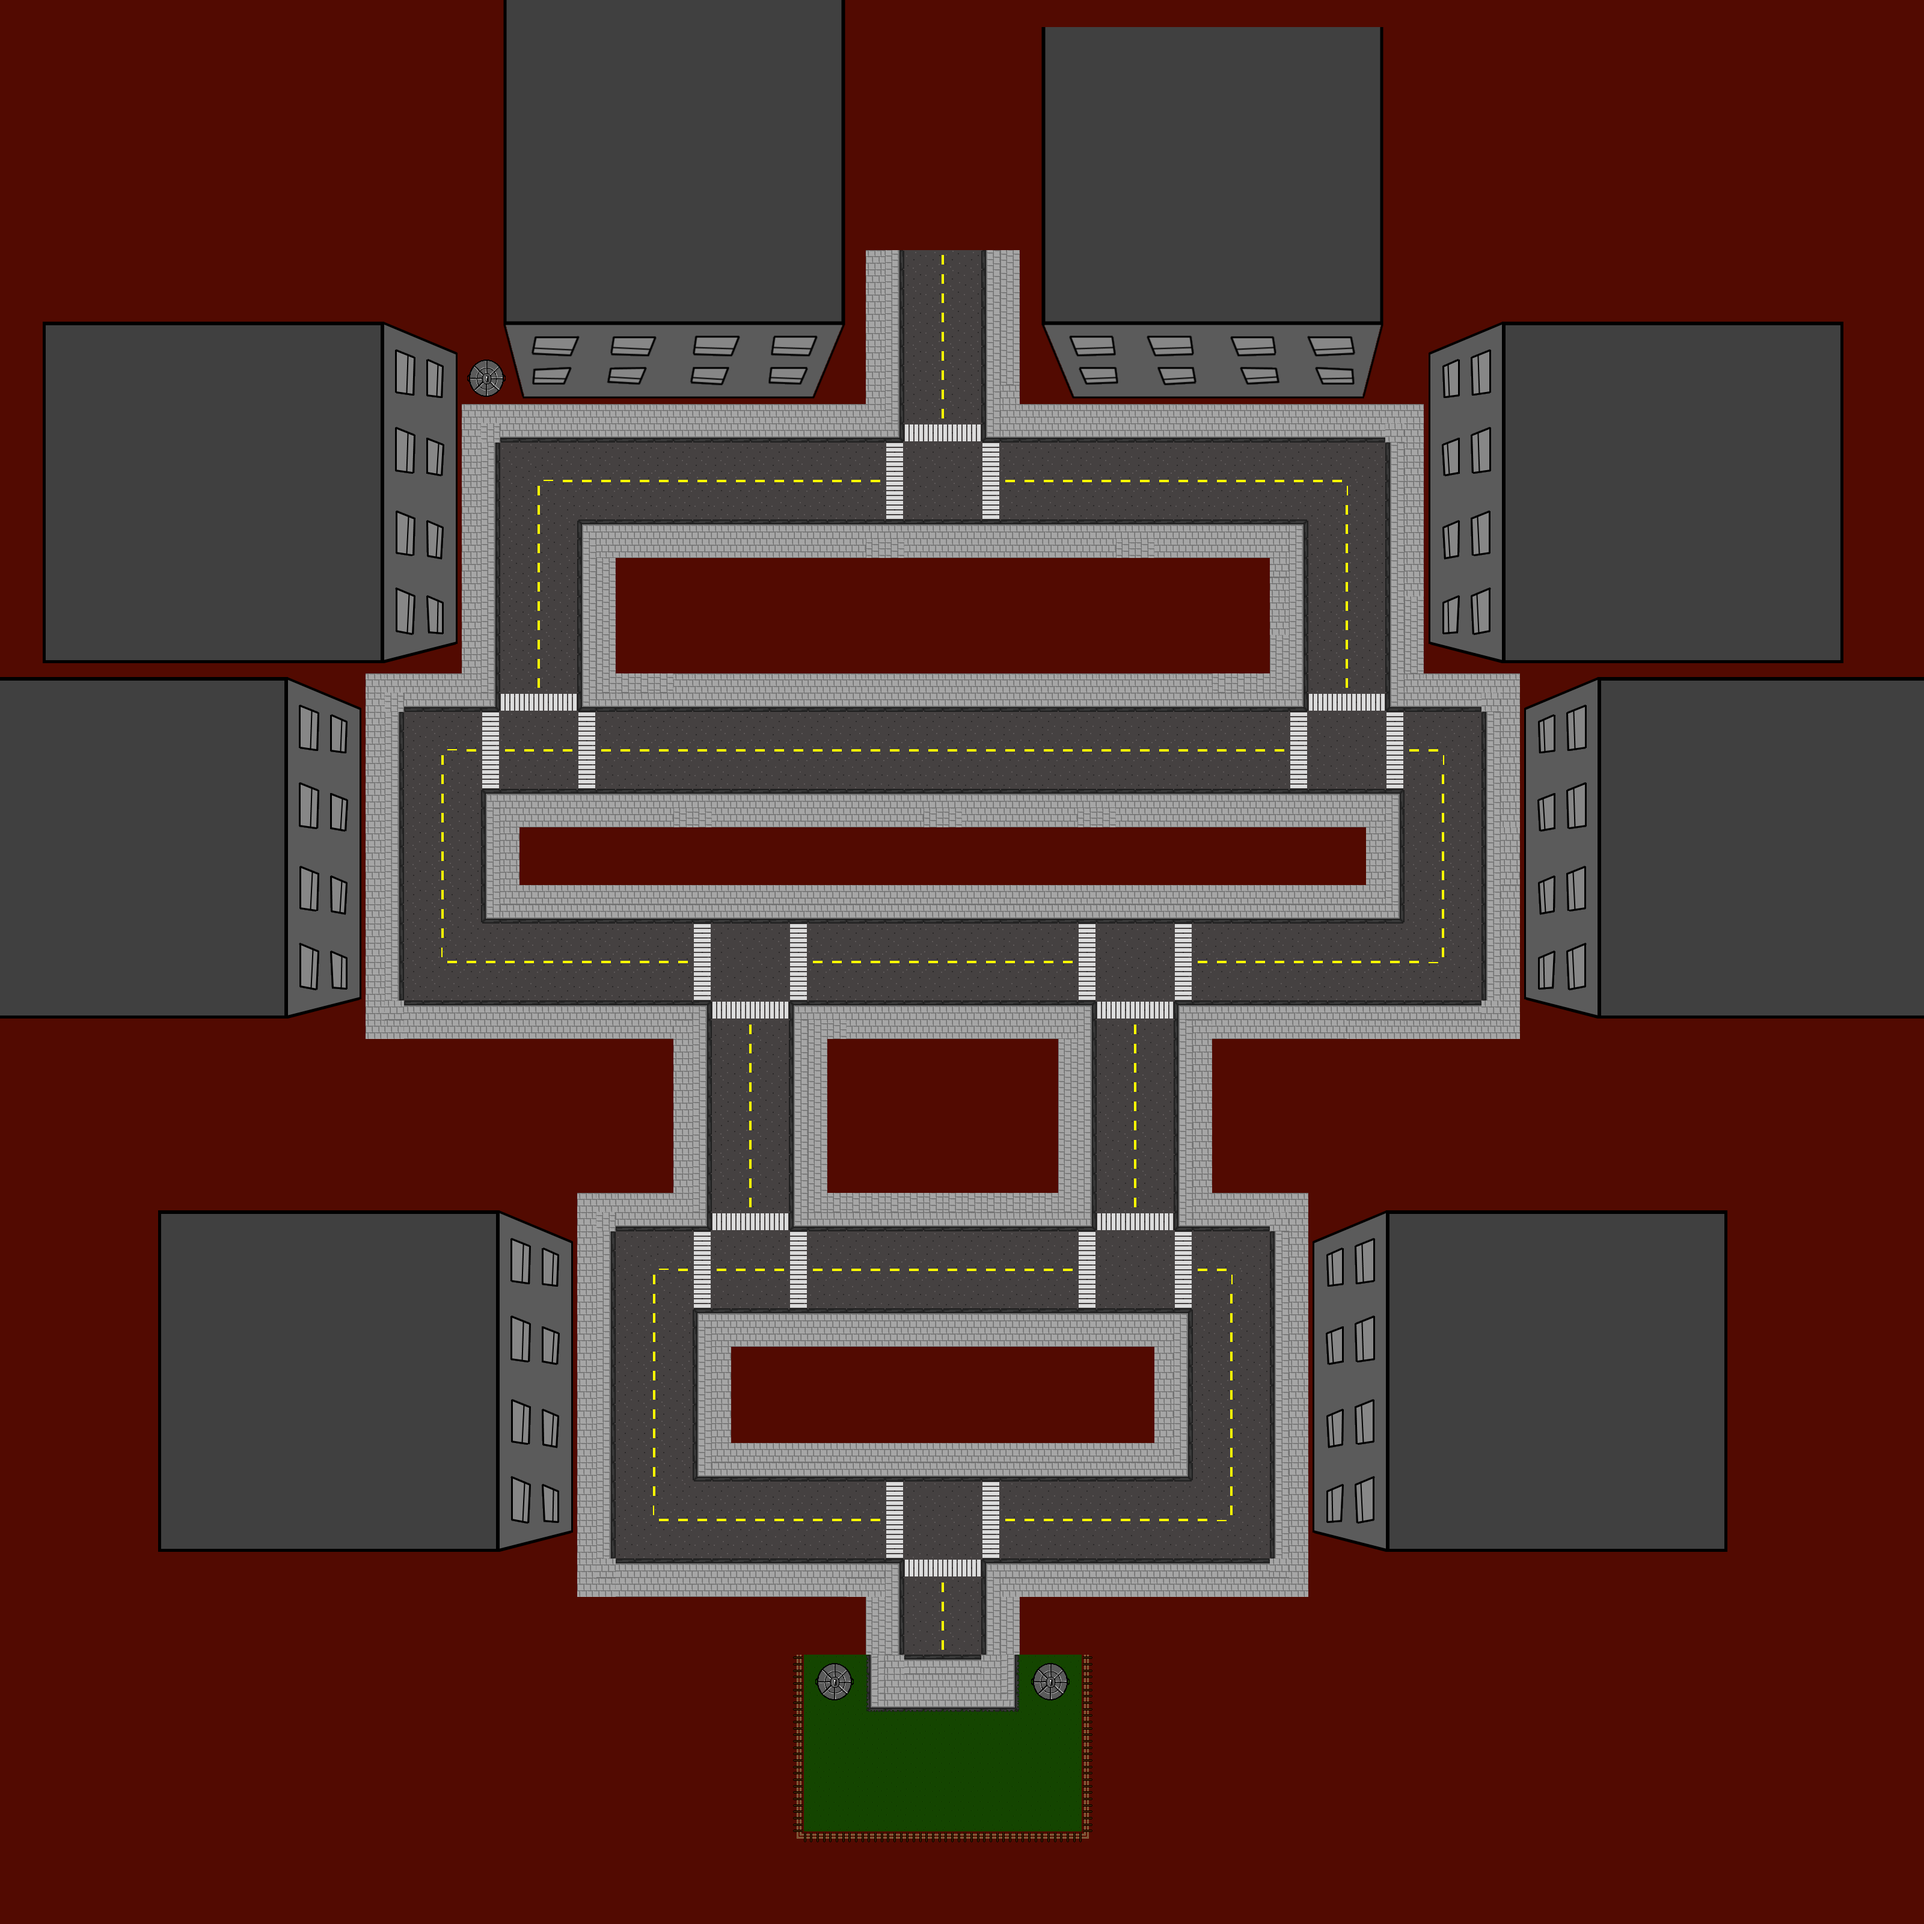
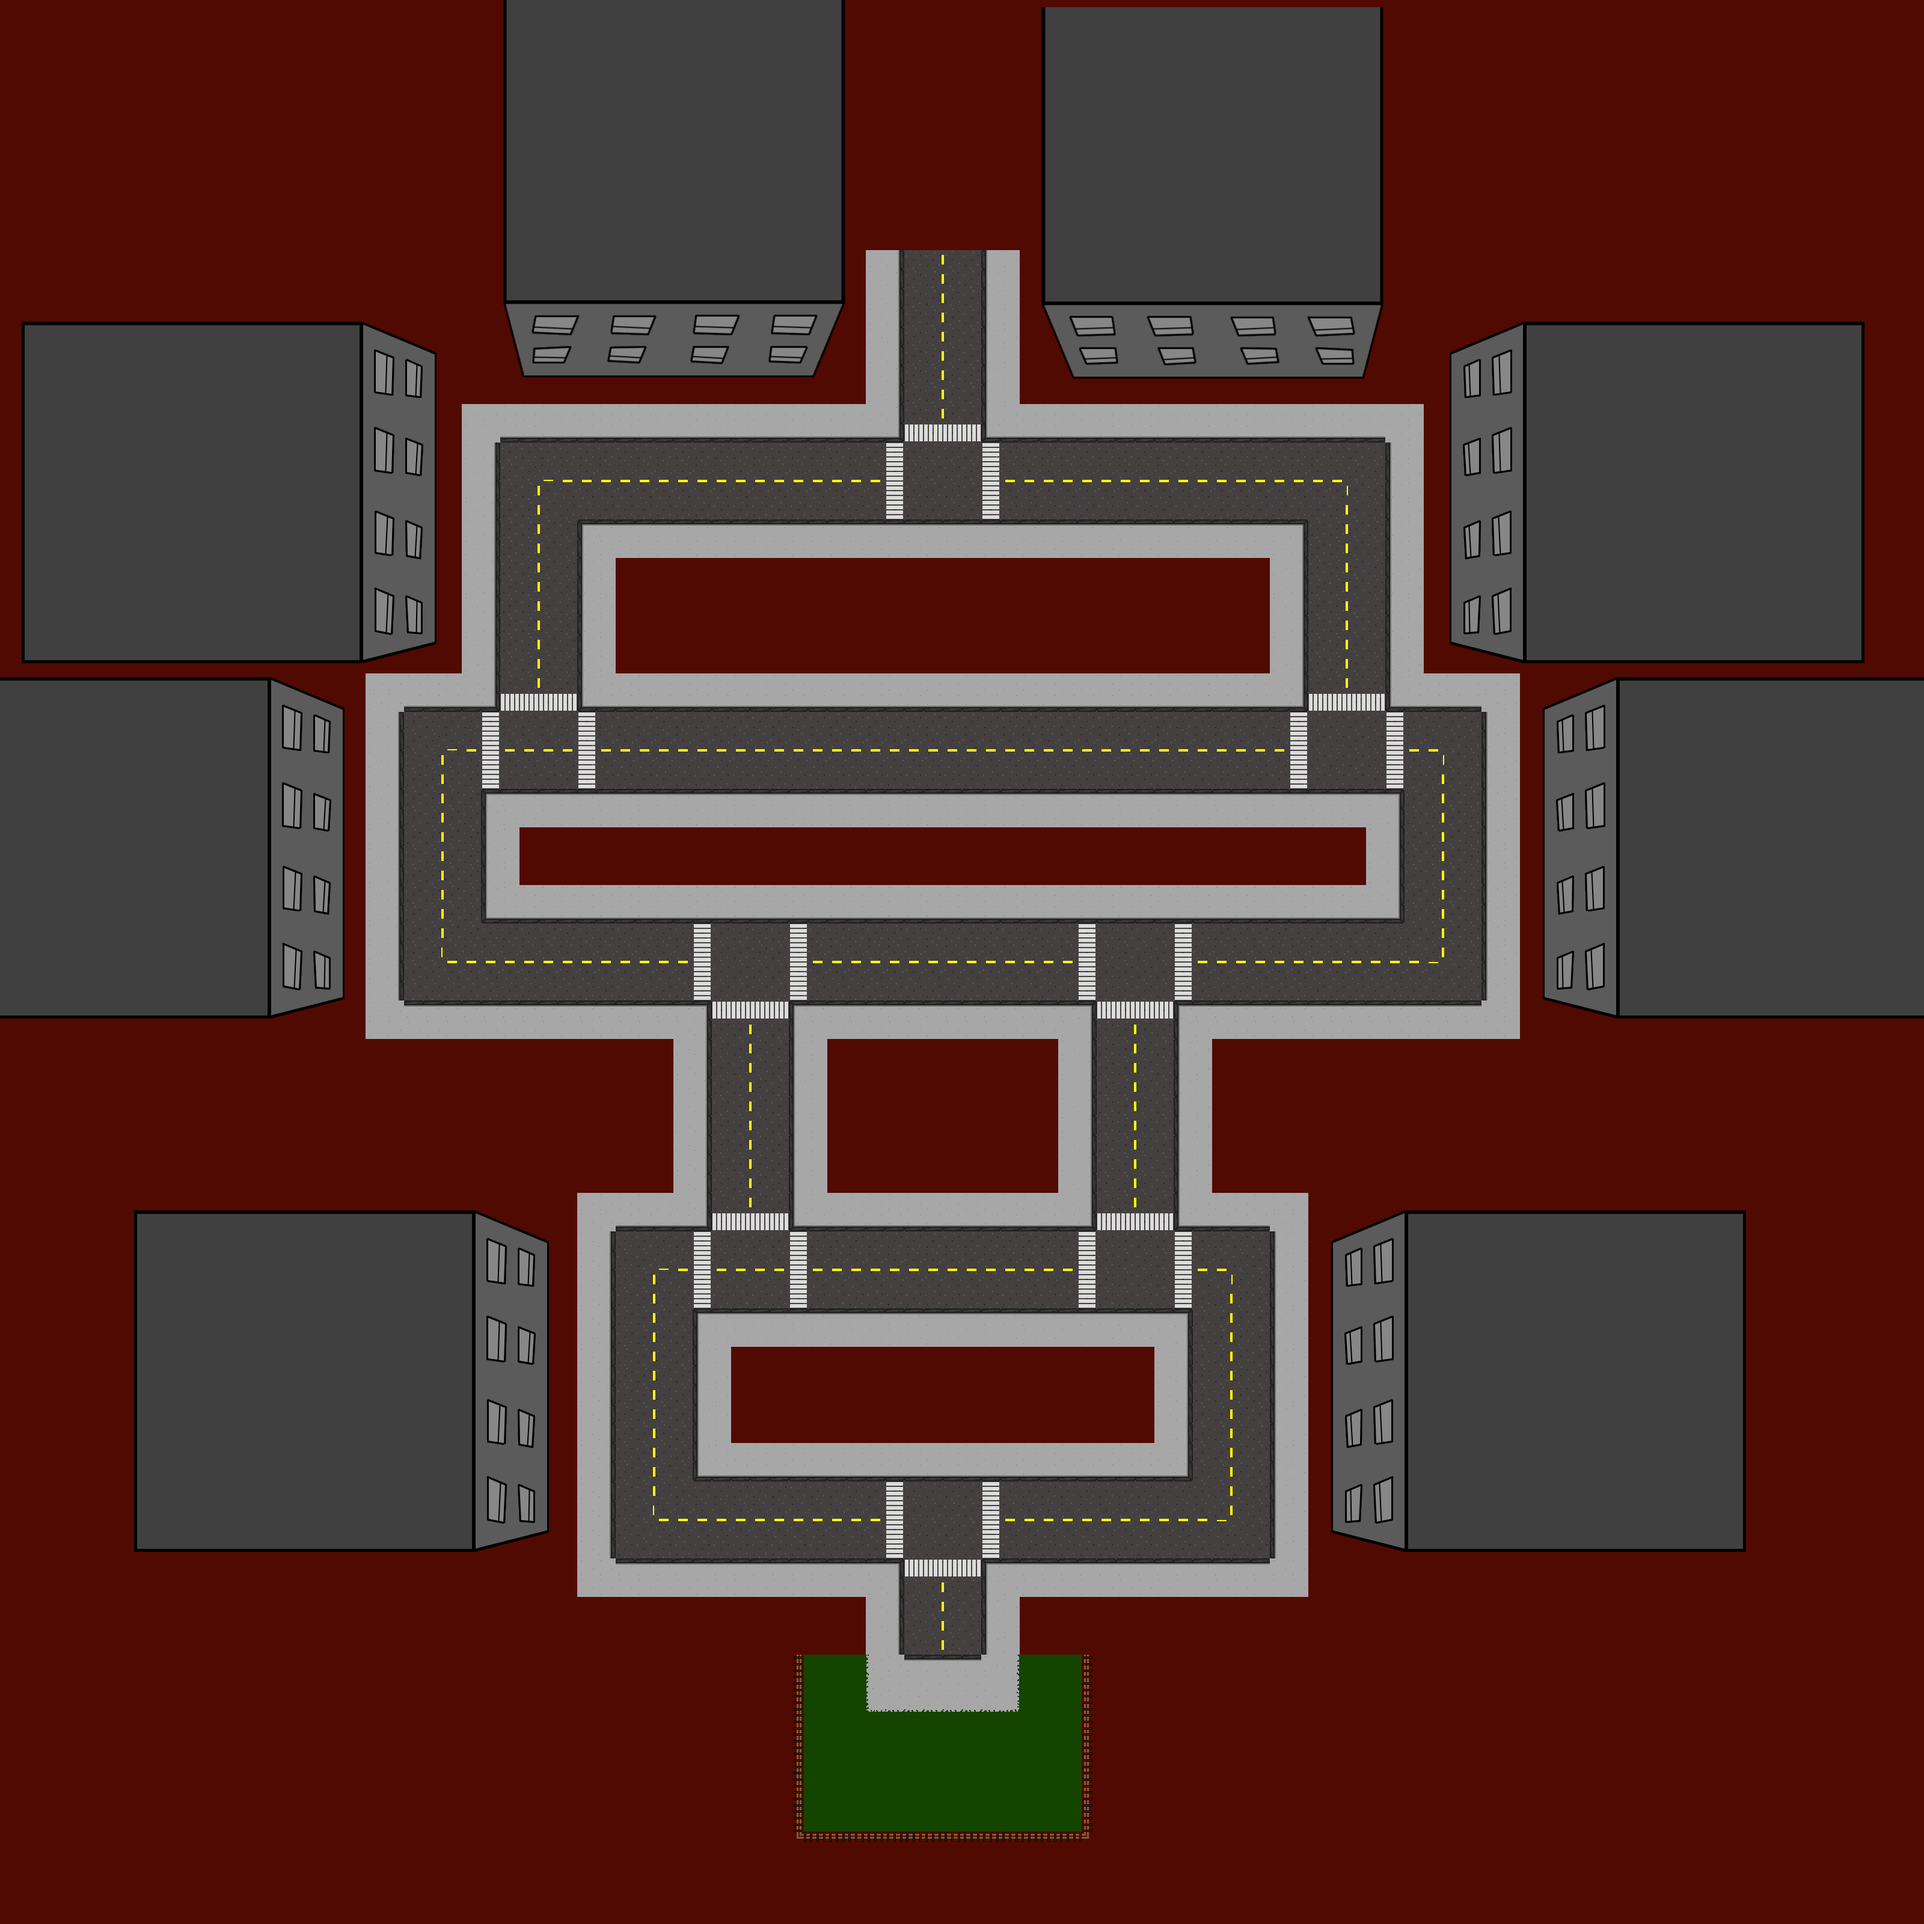
Mob programming roomba and item placement

diff --git a/Main.py b/Main.py
@@ -23,7 +23,7 @@ ProjectileDelay = 0
 Y = 0
 X = 0
 
-CharacterSpeed = 5
+CharacterSpeed = 15
 
 # Defining colours for later use
 White = (255, 255, 255)
@@ -32,7 +32,7 @@ Green = (0, 255, 0)
 Blue = (0, 0, 255)
 Yellow = (255, 255, 0)
 Black = (0, 0, 0)
-CollisionColour = (83, 11, 2)
+CollisionColour = (82, 10, 1)
 
 # Rectangles
 rect = (0, 650, 70, 70)
@@ -43,9 +43,10 @@ rect3 = (160, 650, 70, 70)
 TextFont = pygame.font.SysFont("impact", 60)
 
 # Importing the art
-BackgroundSmall = pygame.image.load("map.png")
+BackgroundSmall = pygame.image.load("map2.png")
 Background = pygame.transform.scale(BackgroundSmall, (5000,5000))
 CharacterModel = pygame.image.load("character2.png")
+ScientistModel = pygame.image.load("Art-assets/Characters/Scientist.png")
 RoombaModel = pygame.image.load("Art-assets/Enemies/Roomba (passive).png")
 RoombaModelHostile = pygame.image.load("Art-assets/Enemies/Roomba (hostile).png")
 PaintballAmmoIcon = pygame.image.load("Art-assets/Paintgun-ammo/AmmoIcon.png")
@@ -57,6 +58,7 @@ BananaPeel = pygame.image.load("Art-assets/Rubbish\Banana peel.png")
 BeerBottle = pygame.image.load("Art-assets/Rubbish/Beer bottle.png")
 WaterBottle = pygame.image.load("Art-assets/Rubbish/Bottle.png")
 GarbageCan = pygame.image.load("Art-assets/Rubbish/Garbage can.png")
+#GarbageCanOpen = pygame.image.load("Art-assests/character2.png")
 RustyCan = pygame.image.load("Art-assets/Rubbish/Rusty Can.png")
 
 # Draws the screen
@@ -76,9 +78,9 @@ class CharacterClass:
         self.rotation = 0
 
         # Item counters
-        self.paint_ball_ammo = 999
-        self.paint_grenade = 999
-        self.rubbish = 999
+        self.paint_ball_ammo = 10
+        self.paint_grenade = 0
+        self.rubbish = 0
 
         # Paintball properties
         self.ball_position = (self.pos_x, self.pos_y)
@@ -151,6 +153,8 @@ class CharacterClass:
                 self.rubbish += 1
             if item_counter == 2:
                 self.paint_grenade += 1
+            if item_counter == 3:
+                self.rubbish += 3
 
         # Draws a paintball if conditions are met
         if self.ball_spawn:
@@ -259,7 +263,9 @@ class CharacterClass:
             if roomba.pos_x + X < self.ball_position[0] < roomba.pos_x + X + 64:
                 if roomba.pos_y + Y < self.ball_position[1] < roomba.pos_y + Y + 64:
                     print "hit"
-                    roombas.remove(roomba)
+                    roomba.delay = 100
+                    self.ball_spawn = False
+                    return
 
     def throw_projectile(self, projectile, projectile_delay, projectile_type):
         """Code for throwing projectiles"""
@@ -342,12 +348,14 @@ class Items:
 
     def draw(self):
         """draws the items on the screen"""
-        if self.item == 1:
-            screen.blit(self.rubbish_type, (X + self.pos_x, Y + self.pos_y))
         if self.item == 0:
             screen.blit(PaintballAmmo, (X + self.pos_x, Y + self.pos_y))
+        if self.item == 1:
+            screen.blit(self.rubbish_type, (X + self.pos_x, Y + self.pos_y))
         if self.item == 2:
             screen.blit(PaintGrenade, (X + self.pos_x, Y + self.pos_y))
+        if self.item == 3:
+            screen.blit(GarbageCan, (X + self.pos_x, Y + self.pos_y))
 
     def player_collision(self):
         """detects collision with the player"""
@@ -363,7 +371,10 @@ class Items:
         if roomba.pos_x - 64 + X < X + self.pos_x < roomba.pos_x + 64 + X:
             if roomba.pos_y - 64 + Y < Y + self.pos_y < roomba.pos_y + 64 + Y:
                 # Removes the item from the list
-                listItems.remove(self)
+                try:
+                    listItems.remove(self)
+                except:
+                    pass
 
 
 class Roomba:
@@ -390,6 +401,7 @@ class Roomba:
         self.detect = 0
         self.returning = False
 
+        self.delay = 0
         self.switch = True
 
     def move(self):
@@ -413,7 +425,7 @@ class Roomba:
         if CharacterPos[0] - 50 < X + self.pos_x + 47 < CharacterPos[0] + 50:
             if CharacterPos[1] - 50 < Y + self.pos_y + 47 < CharacterPos[1] + 50:
                 print "game over"
-                execfile("Game over screen.py")
+                #execfile("Game over screen.py")
 
     def detects(self):
         """Checks if roomba detects player or items"""
@@ -597,6 +609,14 @@ def sub(u, v):
     return [u[i]-v[i] for i in range(len(u))]
     # http://stackoverflow.com/questions/33172753/how-to-have-an-object-run-directly-away-from-mouse-at-a-constant-speed/33173194#33173194
 
+
+def draw_scientist():
+    """Rotates the Scientist to face the point"""
+    vector = sub((X + 540, Y - 1250), CharacterPos)
+    rotate = (math.atan2(vector[0], vector[1]) * 57.2958)
+    scientist_rotate = pygame.transform.rotate(ScientistModel, rotate)
+    screen.blit(scientist_rotate, (X + 640, Y - 1350))
+
 # Create character
 PlayCharacter = CharacterClass()
 
@@ -606,14 +626,25 @@ roombas = []
 # List of Items
 listItems = []
 
-# Item properties (x coord, y coord, item type, used for throwing rubbish)
-ItemSpawn = [(800, 600, 0, ""), (800, 500, 0, ""), (900, 600, 2, "")]
+# Item properties (x coord, y coord, item type, used for throwing rubbish) (0 = AMMO, 2 = GRENADE, 3 = RUBBISH)
+ItemSpawn = [(860, 150, 3, ""), (380, 150, 3, ""), (750, -1885, 3, "")]
 
 # Roomba Start points and end points (Start point x, Start point y, Travel distance x, Travel distance y)
 RoombaSpawn = [(1200, -810, 0, 450), (1300, -840, 0, 500), (1410, -870, 0, 550),
                (1510, -900, 0, 600), (-205, -825, 0, 400), (-90, -480, 0, -400),
                (350, -945, 600, 0), (1000, -1350, 250, 0), (5, -1530, 250, 0),
-               (250, -1385, -250, 0), (5, -1290, 250, 0), (250, -1170, -250, 0)]
+               (250, -1385, -250, 0), (5, -1290, 250, 0), (250, -1170, -250, 0),
+               (1335, -1900, 500, 0), (1335, -1800, 550, 0), (1335, -1700, 600, 0),
+               (1335, -1600, 650, 0), (-550, -2350, 0, 600), (-650, -2350, 0, 600),
+               (-750, -2350, 0, 600), (-850, -2350, 0, 600), (1750, -2260, 0, 250),
+               (1850, -2245, 0, 300), (1950, -2335, 0, 500), (2050, -2400, 0, 700),
+               (1500, -2450, -1600, 0), (1400, -2370, -1550, 0), (1300, -2290, -1500, 0),
+               (1400, -2210, -1550, 0), (1500, -2140, -1600, 0), (-300, -2950, 0, 400),
+               (-400, -2950, 0, 400), (-500, -2950, 0, 400), (-600, -2950, 0, 400),
+               (-300, -2850, 0, 400), (-400, -2850, 0, 400), (-500, -2850, 0, 400),
+               (-600, -2850, 0, 400), (445, -2995, -500, 0), (900, -3160, 300, 300),
+               (970, -2830, 300, -300), (1040, -3160, 300, 300), (1110, -2830, 300, -300),
+               (1180, -3160, 300, 300), (1250, -2830, 300, -300)]
 
 # Create roombas
 for value in RoombaSpawn:
@@ -657,23 +688,24 @@ while Running:
     # Draws the background
     screen.fill(White)
     screen.blit(Background, (X - 1800, Y - 4200))
-    #print -X + 640, -Y + 320
+    print -X + 640, -Y + 320
     # Moves the Roombas
     for roomba in roombas:
-
-        if roomba.returning:
-            roomba.return_to_position()
-        else:
-            if roomba.detect == 0:
-                roomba.move()
-            elif roomba.detect == 2:
-                roomba.chase_item(roomba.item_detected)
+        if roomba.delay < 1:
+            if roomba.returning:
+                roomba.return_to_position()
             else:
-                roomba.chase_player()
-
+                if roomba.detect == 0:
+                    roomba.move()
+                elif roomba.detect == 2:
+                    roomba.chase_item(roomba.item_detected)
+                else:
+                    roomba.chase_player()
+        else:
+            roomba.delay -= 1
         roomba.draw()
         roomba.collision()
-
+    draw_scientist()
     # Rotates the Character
     PlayCharacter.rotate()
     # Updates the Character and the HUD
